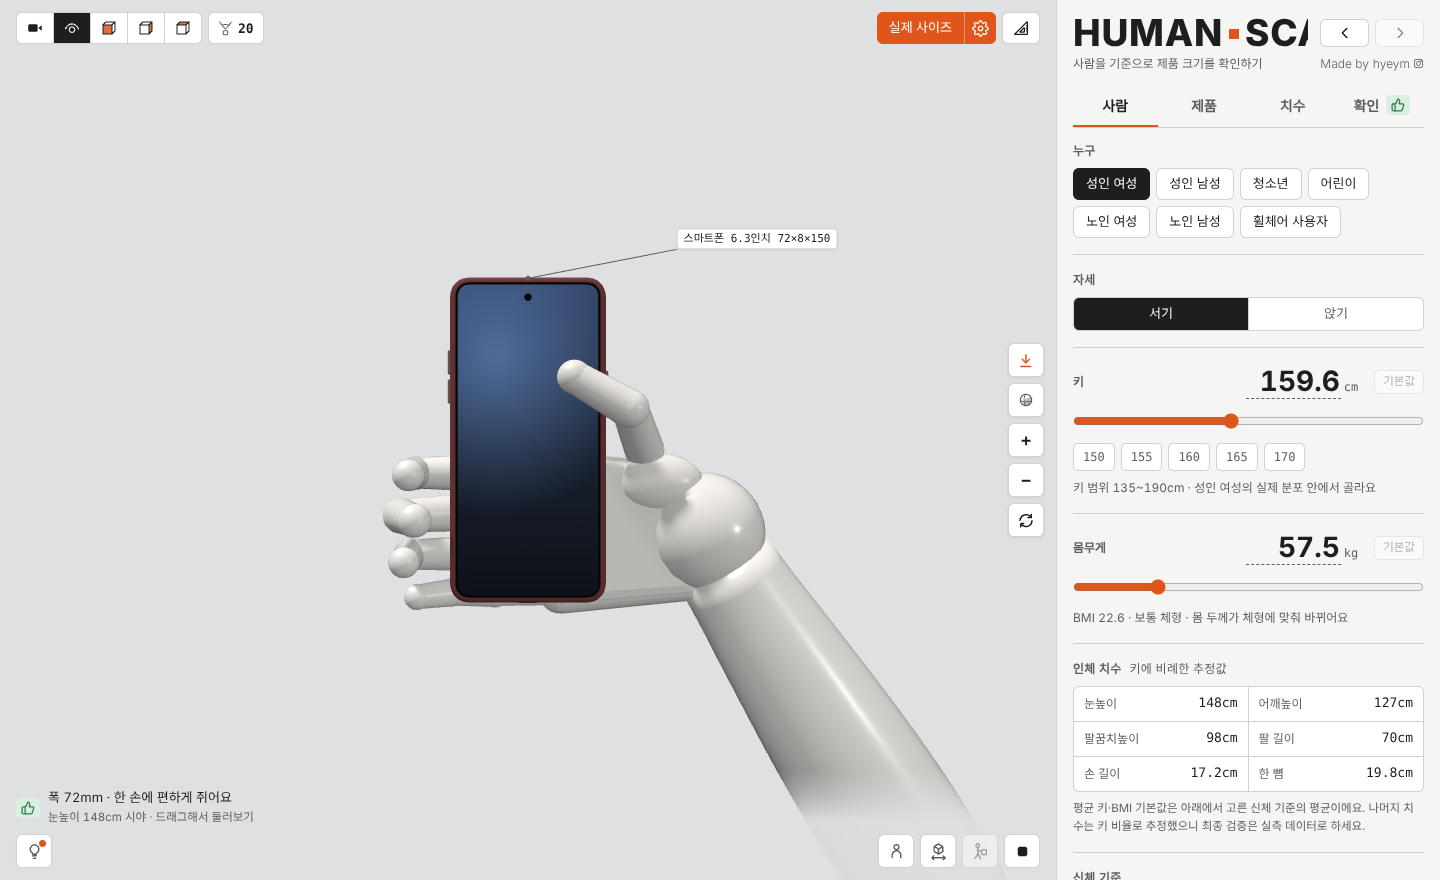
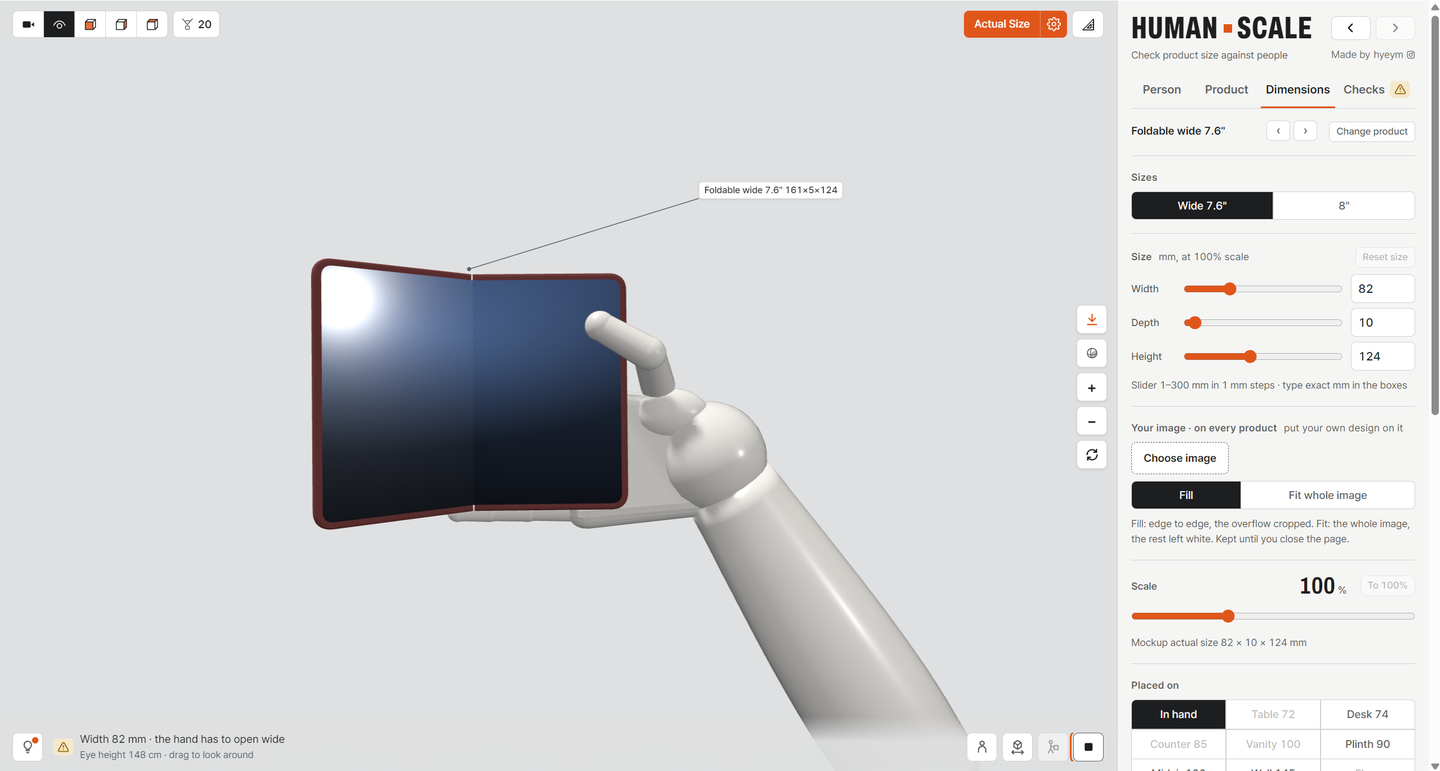
README: the first-person shot of a foldable phone
Claude-Session: https://claude.ai/code/session_01HYNQ1d4u3j94KdSMHWKsoz

diff --git a/README.md b/README.md
@@ -24,7 +24,7 @@ It is not only for designers. Anyone with a product in mind, from a sheet of pap
 |---|---|
 | ![A child reaching the controls of a humidifier on a plinth](docs/02-child-humidifier.png) | ![A hand on a vertical mouse, from above](docs/03-vertical-mouse.png) |
 | A child reaching a humidifier's controls<br>어린이가 가습기 조작부에 손을 뻗는 모습 | Holding a vertical mouse, from above<br>버티컬 마우스 쥐기 — 위에서 본 모습 |
-| ![A wheelchair user at a microwave on the counter](docs/04-wheelchair-counter.png) | ![A smartphone in first person](docs/05-first-person.png) |
+| ![A wheelchair user at a microwave on the counter](docs/04-wheelchair-counter.png) | ![A foldable phone held open, in first person](docs/05-first-person.png) |
 | Wheelchair user at a microwave<br>휠체어 사용자의 전자레인지 사용 | First person, through the user's eyes<br>사용자의 눈으로 본 1인칭 시점 |
 
 ## What it does
